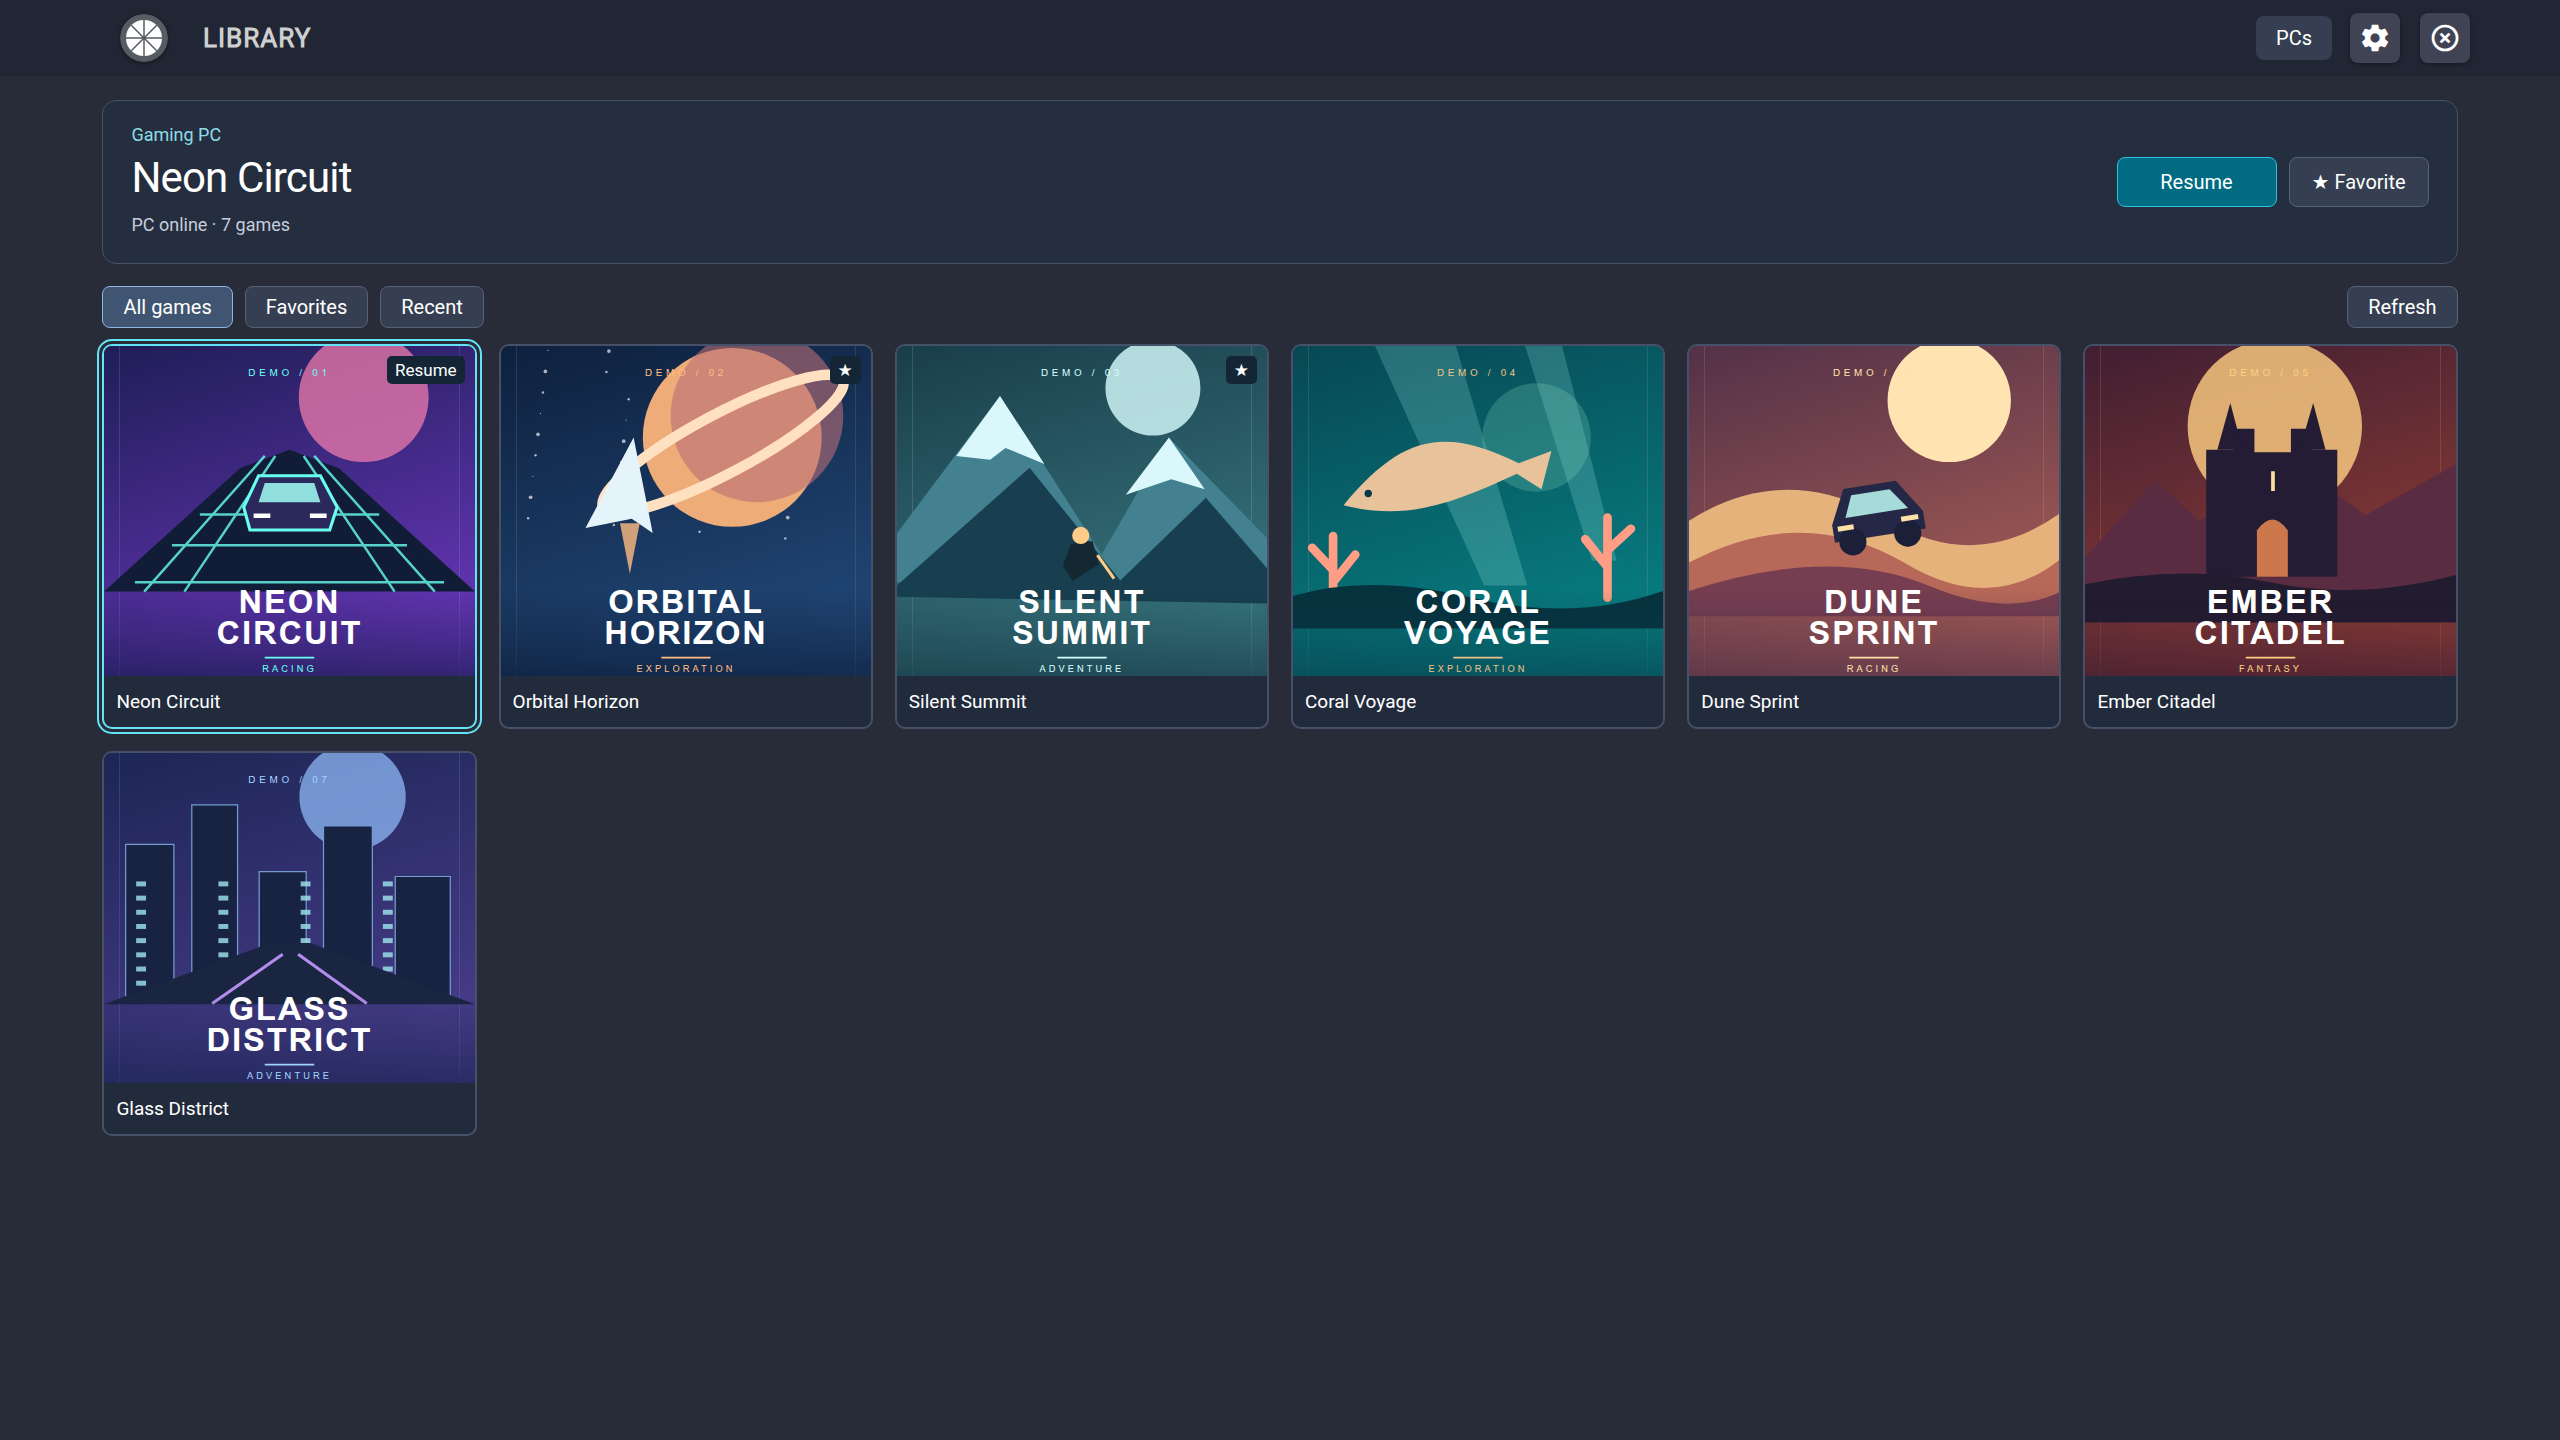
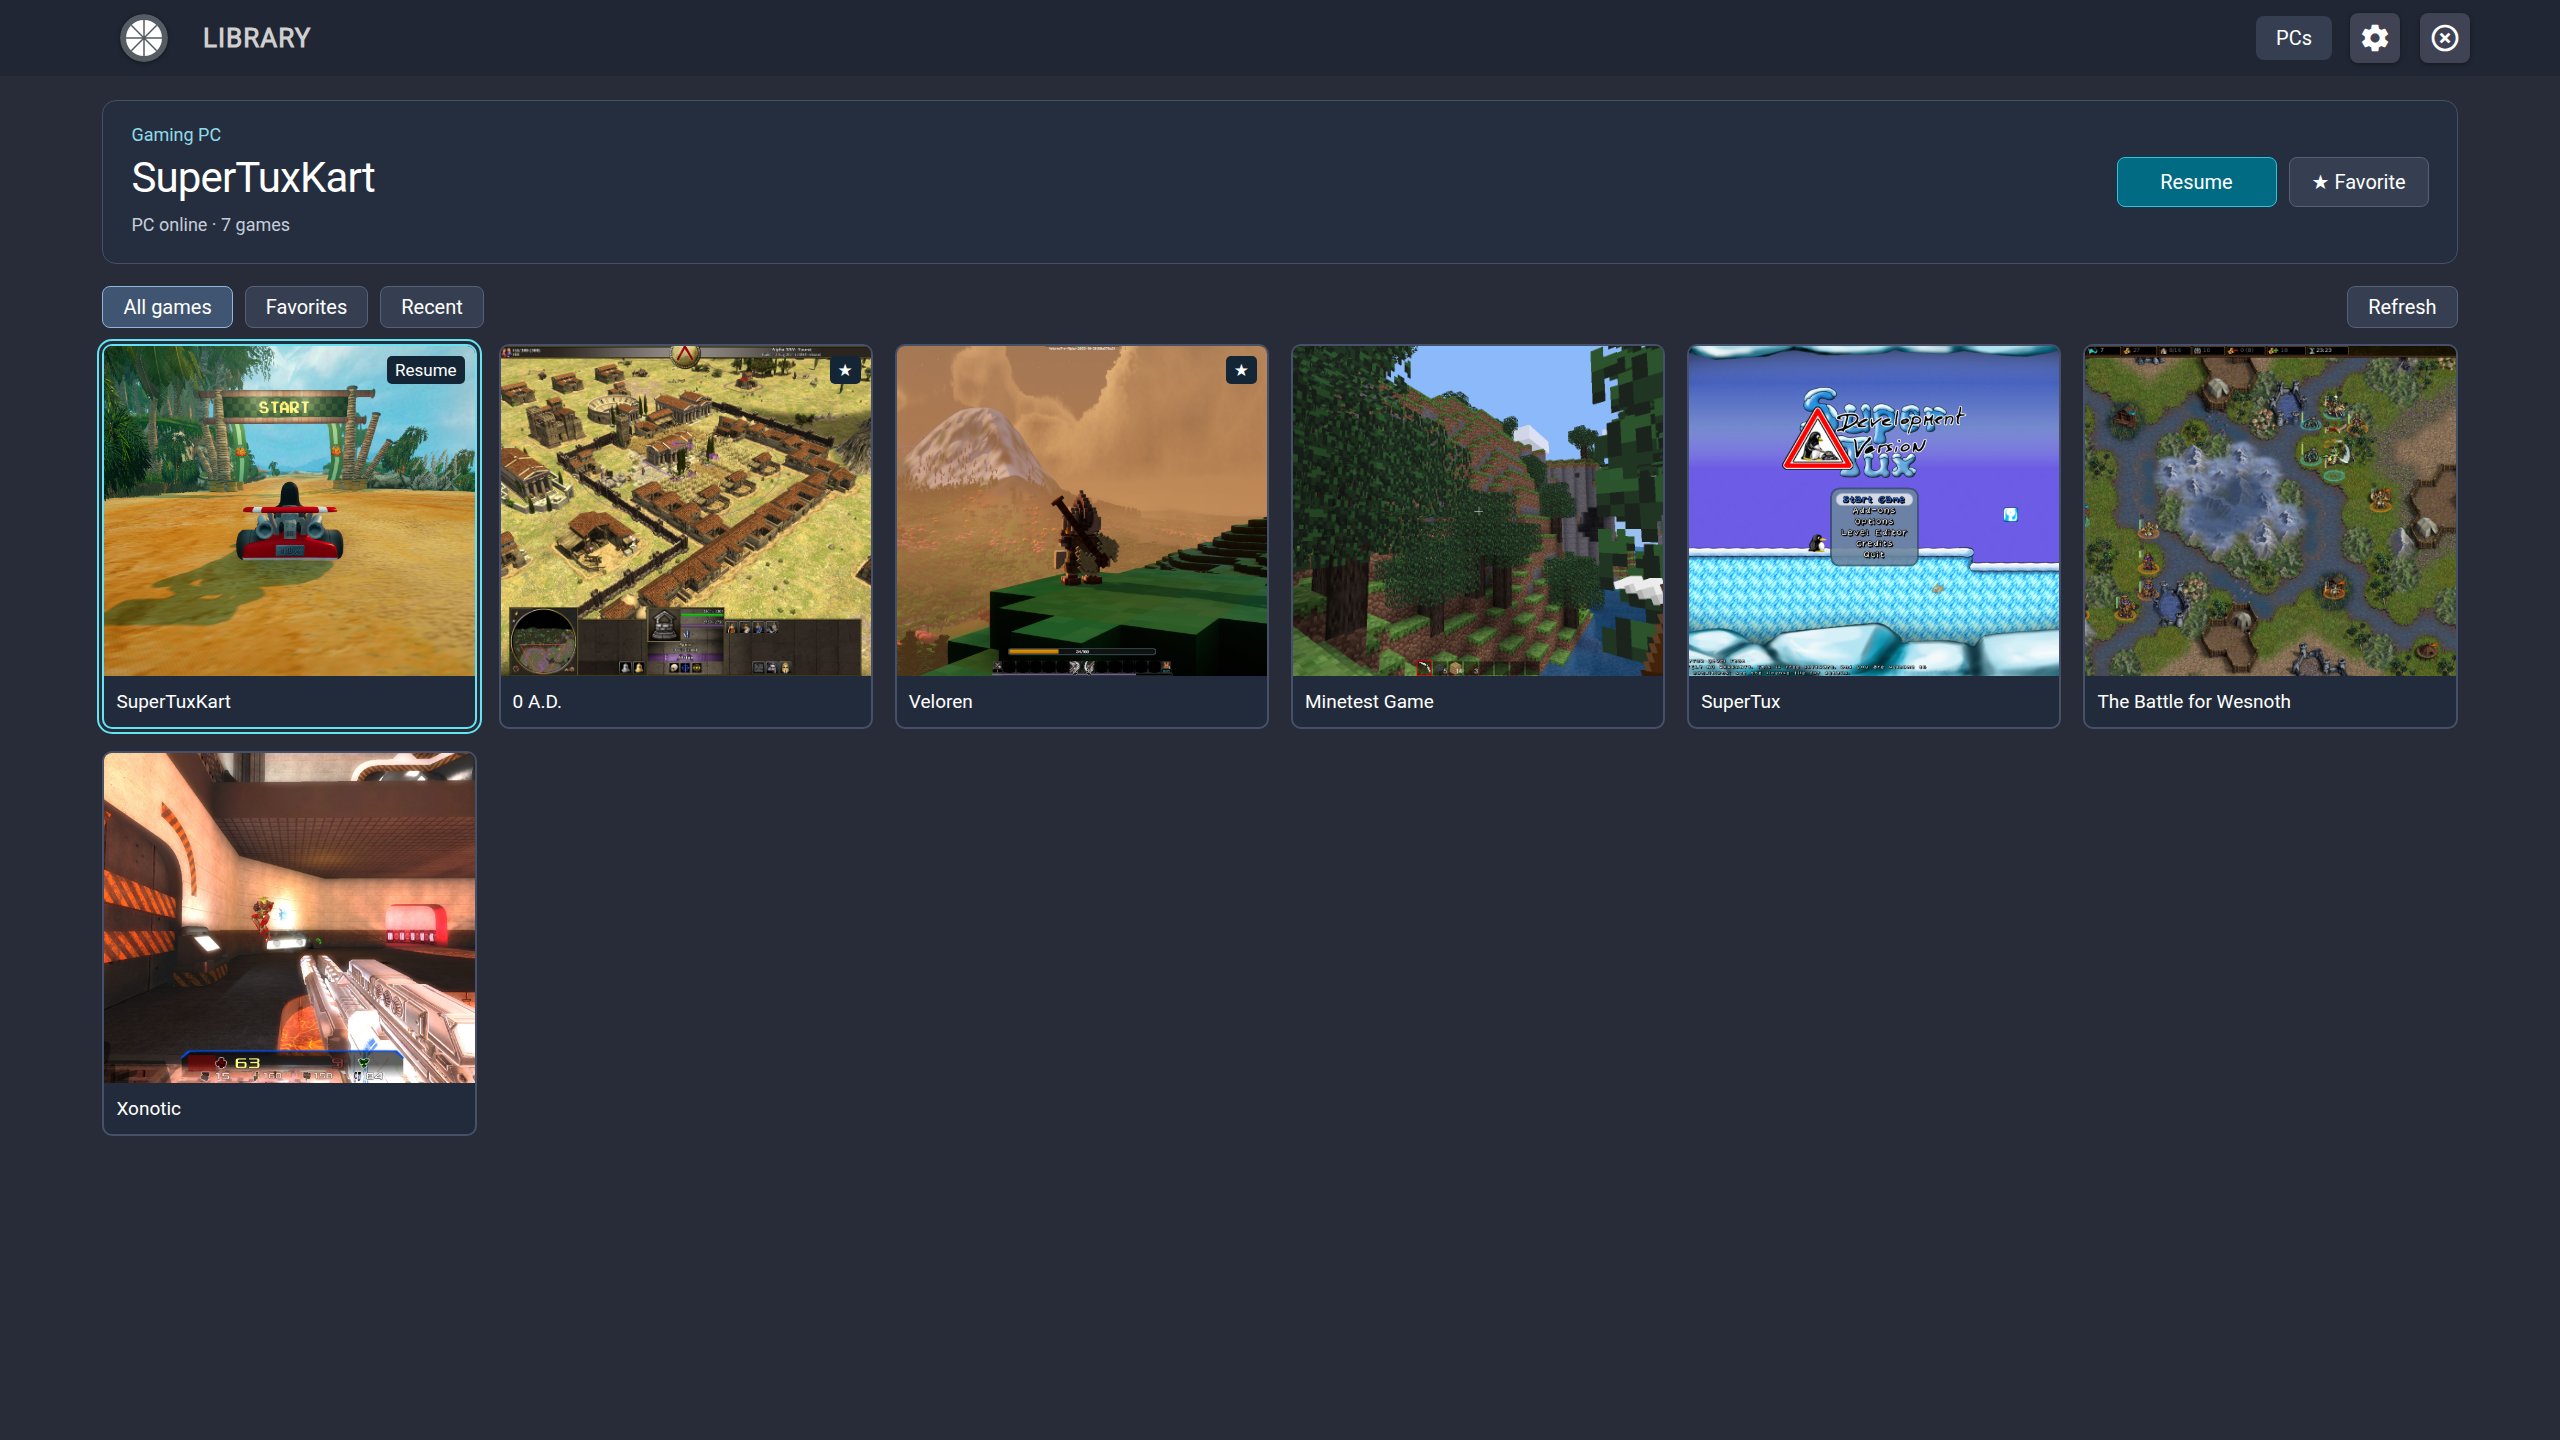
Preserve the local proposal with seven open games

Changed region(s): [[0.0312, 0.2188, 0.9688, 0.7812], [0.0625, 0.0938, 0.1562, 0.1562]]

diff --git a/docs/images/ATTRIBUTION.md b/docs/images/ATTRIBUTION.md
@@ -1,0 +1,44 @@
+# Documentation image credits
+
+The README library uses real screenshots of seven open-source games in a
+synthetic PC library. It does not claim that these games were tested on a TV,
+and no game developer endorses this fork.
+
+The original image files are retained without pixel changes in `open-games/`.
+The application's existing `object-fit: cover` scales and crops their visible
+area in `game-library.png`; favorites, selection and Resume are demonstration
+state. `settings.png` contains only this application's interface.
+
+## Source images
+
+| Local file | Game / credit | Source and license |
+|---|---|---|
+| `open-games/supertuxkart.jpg` | SuperTuxKart — STK dev team | [Supertuxkart-0.9-screenshot-2.jpg](https://commons.wikimedia.org/wiki/File:Supertuxkart-0.9-screenshot-2.jpg) · [CC BY 3.0](https://creativecommons.org/licenses/by/3.0/) |
+| `open-games/0ad.jpg` | 0 A.D. — Wildfire Games | [0 A.D. alpha 25 - playing as Spartans.jpg](https://commons.wikimedia.org/wiki/File:0_A.D._alpha_25_-_playing_as_Spartans.jpg) · artwork [CC BY-SA 3.0](https://creativecommons.org/licenses/by-sa/3.0/); software GPL-2.0-or-later |
+| `open-games/veloren.jpg` | Veloren — screenshot by Antimundo; game by the Veloren contributors | [Veloren-0.17-screenshot-horizon.jpg](https://commons.wikimedia.org/wiki/File:Veloren-0.17-screenshot-horizon.jpg) · screenshot [CC0 1.0](https://creativecommons.org/publicdomain/zero/1.0/) |
+| `open-games/minetest.png` | Minetest Game — screenshot by Kotolegokot; game by the Minetest Game contributors | [Minetest screenshot 2.png](https://commons.wikimedia.org/wiki/File:Minetest_screenshot_2.png) · [CC BY-SA 3.0](https://creativecommons.org/licenses/by-sa/3.0/) |
+| `open-games/xonotic.jpg` | Xonotic — screenshot by greewrfdsfsf; game credit Justin, kuniu the frogg | [Xonotic Game Play - Silent Siege.jpg](https://commons.wikimedia.org/wiki/File:Xonotic_Game_Play_-_Silent_Siege.jpg) · [GPL-2.0-or-later](https://www.gnu.org/licenses/old-licenses/gpl-2.0.html) |
+| `open-games/supertux.png` | SuperTux — SuperTux Development Team | [SuperTux 0.5.1 screenshot (main page).png](https://commons.wikimedia.org/wiki/File:SuperTux_0.5.1_screenshot_%28main_page%29.png) · [GPL-2.0-or-later](https://www.gnu.org/licenses/old-licenses/gpl-2.0.html) |
+| `open-games/wesnoth.jpg` | The Battle for Wesnoth — Battle for Wesnoth developers | [Battle for wesnoth version 1.12.0 screenshot.jpg](https://commons.wikimedia.org/wiki/File:Battle_for_wesnoth_version_1.12.0_screenshot.jpg) · [GPL-2.0-or-later](https://www.gnu.org/licenses/old-licenses/gpl-2.0.html) |
+
+## Composite capture
+
+`game-library.png` is distributed under [GPL-3.0](../../LICENSE), matching the
+application UI. The unchanged source images retain the licenses above.
+For the cropped CC BY-SA 3.0 material incorporated into the composite, the
+adaptation uses CC BY-SA 4.0 and its one-way GPLv3 compatibility. See
+[CC BY-SA 3.0 section 4(b)](https://creativecommons.org/licenses/by-sa/3.0/legalcode.en)
+and the [CC BY-SA 4.0 compatible-license list](https://creativecommons.org/compatible-licenses/).
+
+The screenshot's editable source consists of the original images above and
+the application's HTML/CSS/JavaScript in `wasm/`. Original game source projects:
+[SuperTuxKart](https://github.com/supertuxkart/stk-code),
+[0 A.D.](https://github.com/0ad/0ad),
+[Veloren](https://gitlab.com/veloren/veloren),
+[Minetest Game](https://github.com/luanti-org/minetest_game),
+[Xonotic](https://gitlab.com/xonotic/xonotic),
+[SuperTux](https://github.com/SuperTux/supertux),
+[Wesnoth](https://github.com/wesnoth/wesnoth).
+
+Licensing pages checked on 2026-10-02. These are openly licensed images,
+not a claim that the games or every element of their artwork are copyright-free.

diff --git a/README.md b/README.md
@@ -4,7 +4,7 @@ A fork of [brightcraft/moonlight-tizen](https://github.com/brightcraft/moonlight
 
 ## Interface
 
-![Game library with seven demo games, favorites and the Resume action](docs/images/game-library.png)
+![Game library with seven open-source games, favorites and the Resume action](docs/images/game-library.png)
 
 <details>
 <summary>Basic settings</summary>
@@ -13,10 +13,10 @@ A fork of [brightcraft/moonlight-tizen](https://github.com/brightcraft/moonlight
 
 </details>
 
-Actual application UI rendered locally with a fictional game library and PC.
-The seven cover illustrations are original demo artwork; no commercial game
-artwork is used. These images show the interface, including a simulated Resume
-state, rather than a gameplay session on a TV.
+Actual application UI rendered locally with a demonstration PC and seven real
+open-source games. Game images are reused under their published open licenses;
+see [image credits and licenses](docs/images/ATTRIBUTION.md). The Resume state is
+simulated; these captures demonstrate the interface, not gameplay on a TV.
 
 ## Why this fork
 
